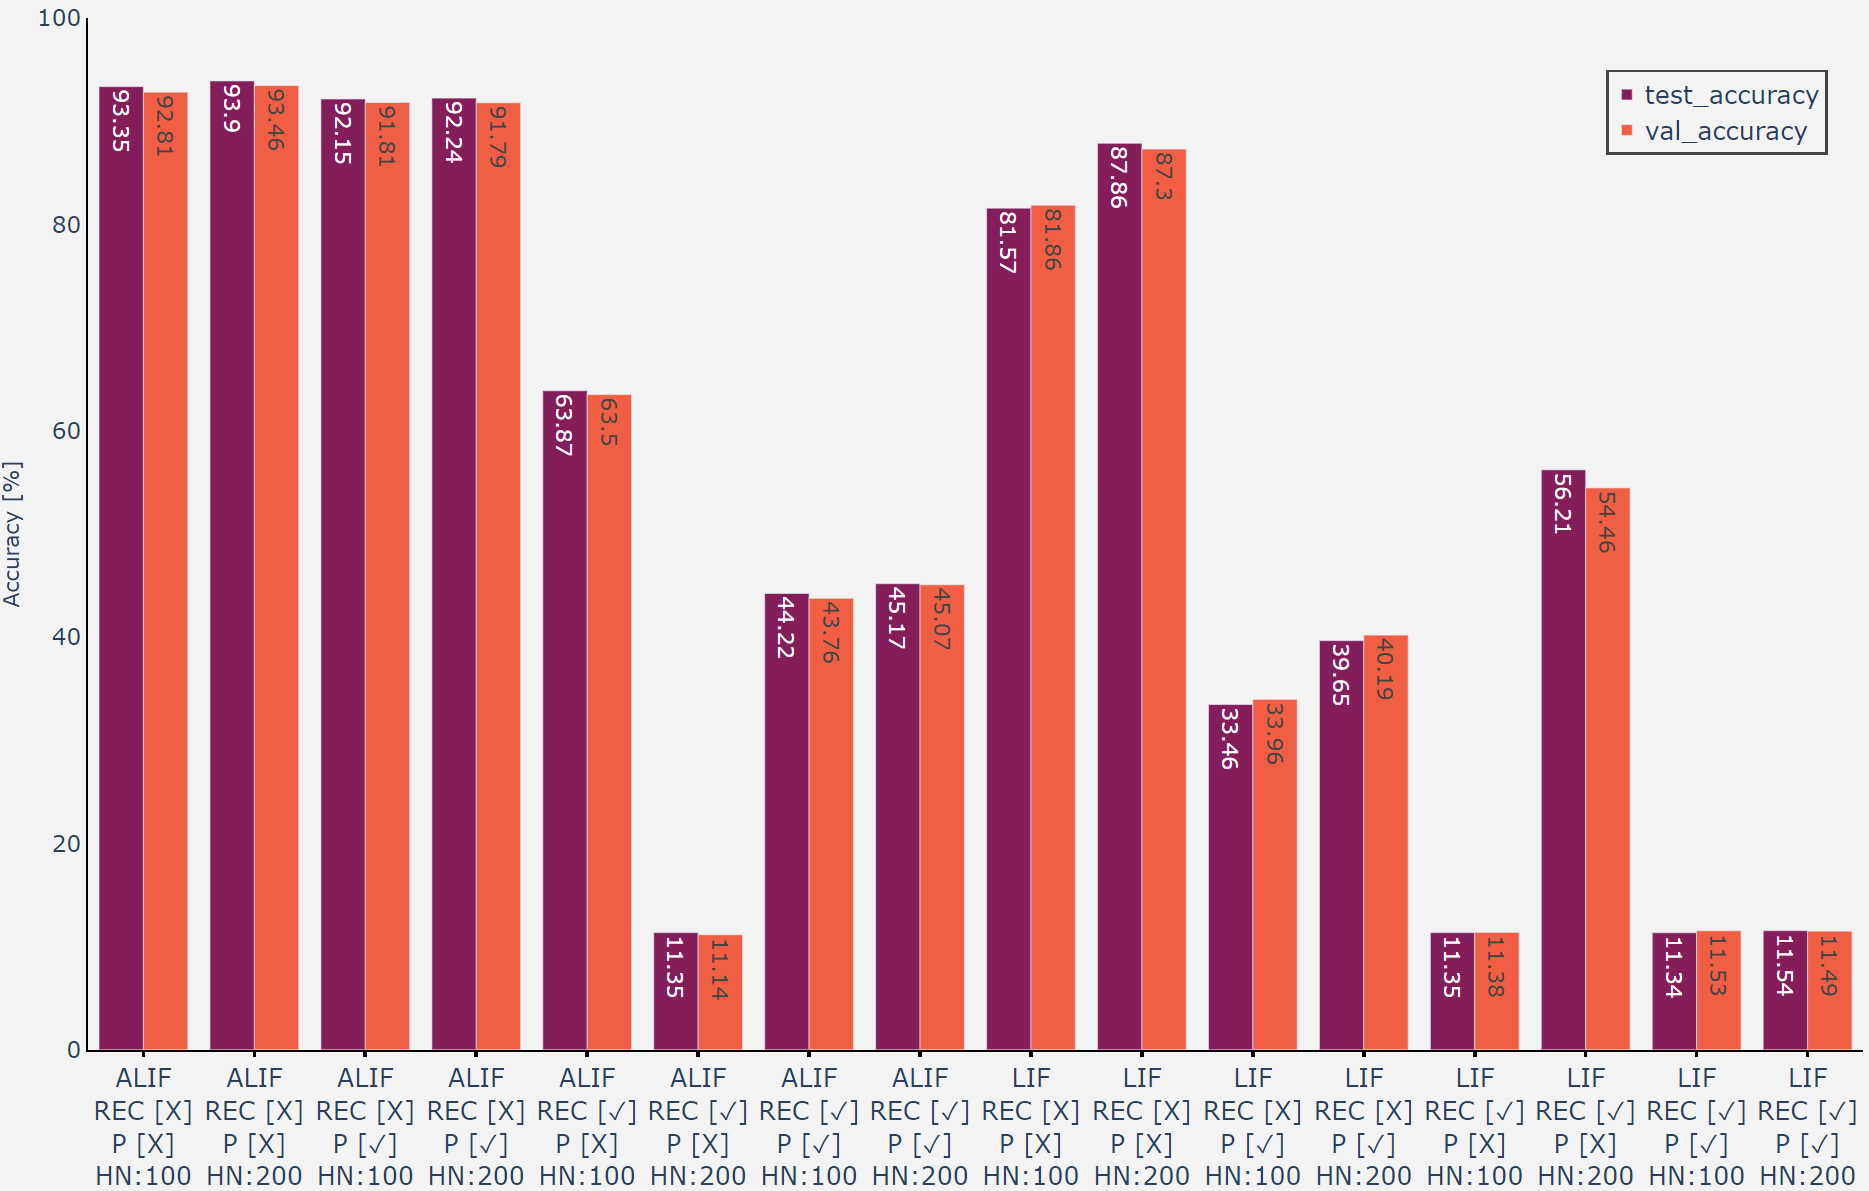
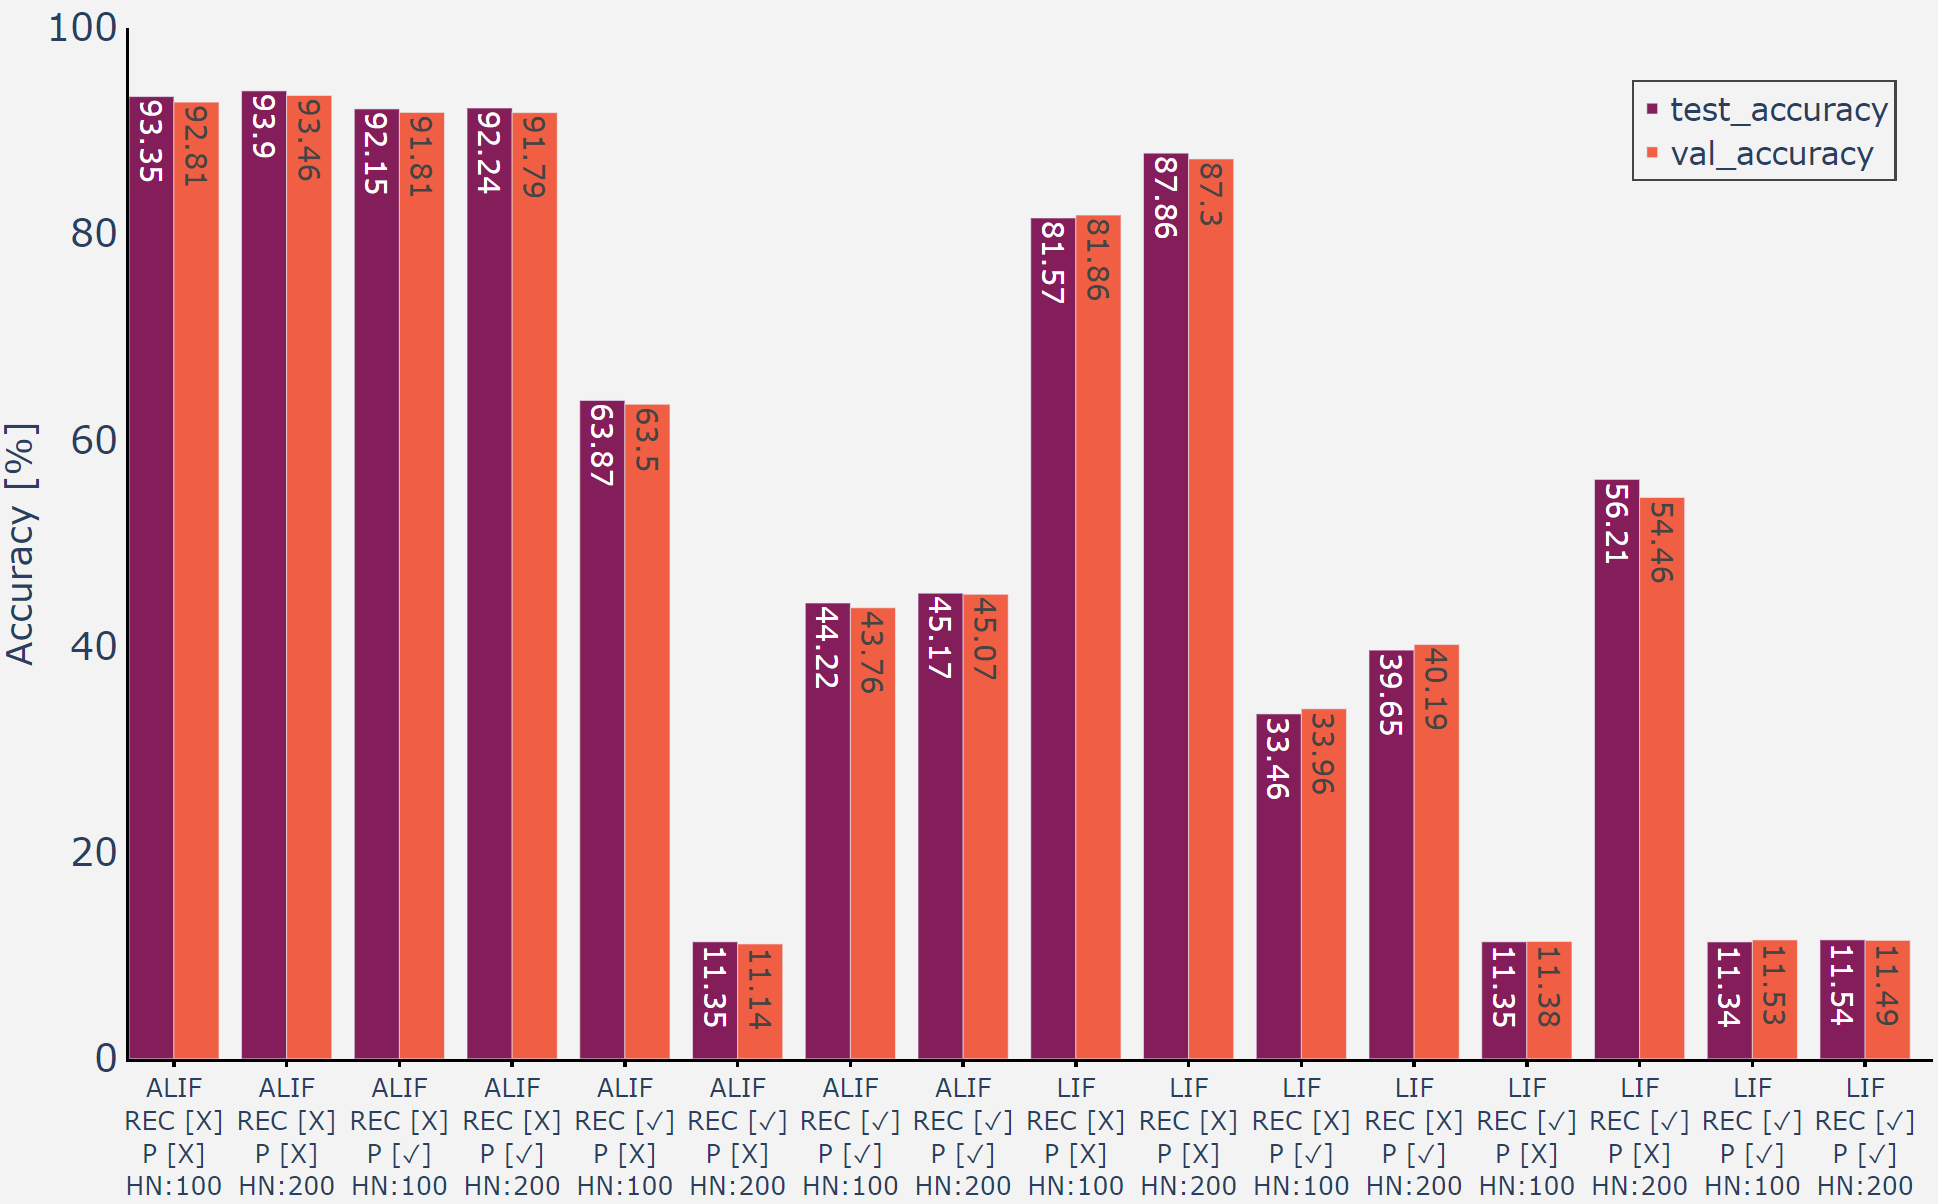
more results

Changed region(s): [[0.0, 0.0621, 0.993, 0.9941], [0.8379, 0.0621, 0.993, 0.1553], [0.031, 0.0, 0.0621, 0.0311]]

diff --git a/result_methods.py b/result_methods.py
@@ -8,23 +8,23 @@ import numpy as np
 plot_layout = dict(
 	paper_bgcolor='rgb(243, 243, 243)',
 	plot_bgcolor='rgb(243, 243, 243)',
-	legend=dict(font_size=28, borderwidth=3, ),
+	legend=dict(font_size=35, borderwidth=3, ),
 	xaxis=dict(
 		tickfont_size=28,
 		zeroline=False,
 		showgrid=False,
 		title_font_size=24,
 		showline=True,
-		linewidth=2,
+		linewidth=4,
 		linecolor='black',
 	),
 	yaxis=dict(
 		showgrid=False,
-		tickfont_size=28,
+		tickfont_size=42,
 		zeroline=False,
-		title_font_size=28,
+		title_font_size=40,
 		showline=True,
-		linewidth=2,
+		linewidth=4,
 		linecolor='black',
 	)
 )
@@ -69,7 +69,7 @@ def _plot_bar_result(figure: go.Figure, results: pd.DataFrame, dataset: str, y_a
 		text=list(map(lambda a: round(a, 2), y_data)),
 		textposition='auto',
 		textangle=90,
-		textfont_size=24,
+		textfont_size=32,
 		**kwargs
 	)
 	)
@@ -89,7 +89,6 @@ def plot_bar_result(results: pd.DataFrame, dataset_name: str, list_col_names: li
 	figure.update_layout(
 		barmode='group',
 		legend=dict(
-			font_size=28,
 			x=0.98,
 			y=0.95,
 			xanchor='right',
@@ -100,18 +99,12 @@ def plot_bar_result(results: pd.DataFrame, dataset_name: str, list_col_names: li
 		uniformtext=dict(mode="hide", minsize=18),
 	)
 	figure.update_xaxes(
-		showline=True,
-		linewidth=3,
-		linecolor='black',
 		ticks="outside",
 		tickwidth=4,
 		tickcolor='black'
 	)
 	figure.update_yaxes(
 		title=dict(text='Accuracy [%]'),
-		showline=True,
-		linewidth=2,
-		linecolor='black',
 		range=[0, 100],
 	)
 	return figure
@@ -165,7 +158,7 @@ def box_plot_accuracy(results: pd.DataFrame, dataset_name: str):
 		ticks="outside",
 		tickwidth=4,
 		tickcolor='black',
-		tickfont_size=26,
+		tickfont_size=38,
 
 	)
 	figure.update_yaxes(
@@ -224,18 +217,23 @@ def pairwise_comparison(results: pd.DataFrame, dataset_name: str):
 			marker_color='crimson',
 		)
 	)
+	fig.update_layout(plot_layout)
+	fig.update_xaxes(
+		tickfont_size=38,
+	)
 	fig.update_yaxes(
 		title=dict(text='Différence couplée moyenne'),
+		range=[0, 0.45],
 	)
-	fig.update_layout(plot_layout)
 	return fig
 
 
 if __name__ == '__main__':
 	result = load_results()
-	# make_data_for_box_plot(result, 'MNIST', 'test_accuracy').show()
 	# box_plot_accuracy(result, 'MNIST').show()
+	# box_plot_accuracy(result, 'FASHION_MNIST').show()
+	# plot_bar_result(result, 'MNIST', ['test_accuracy', 'val_accuracy']).show()
 	# plot_bar_result(result, 'FASHION_MNIST', ['test_accuracy', 'val_accuracy']).show()
 	# print(statistical_analysis_model(result, 'FASHION_MNIST').summary())
-	# pairwise_comparison(result, 'MNIST').show()
+	pairwise_comparison(result, 'MNIST').show()
 	pairwise_comparison(result, 'FASHION_MNIST').show()
